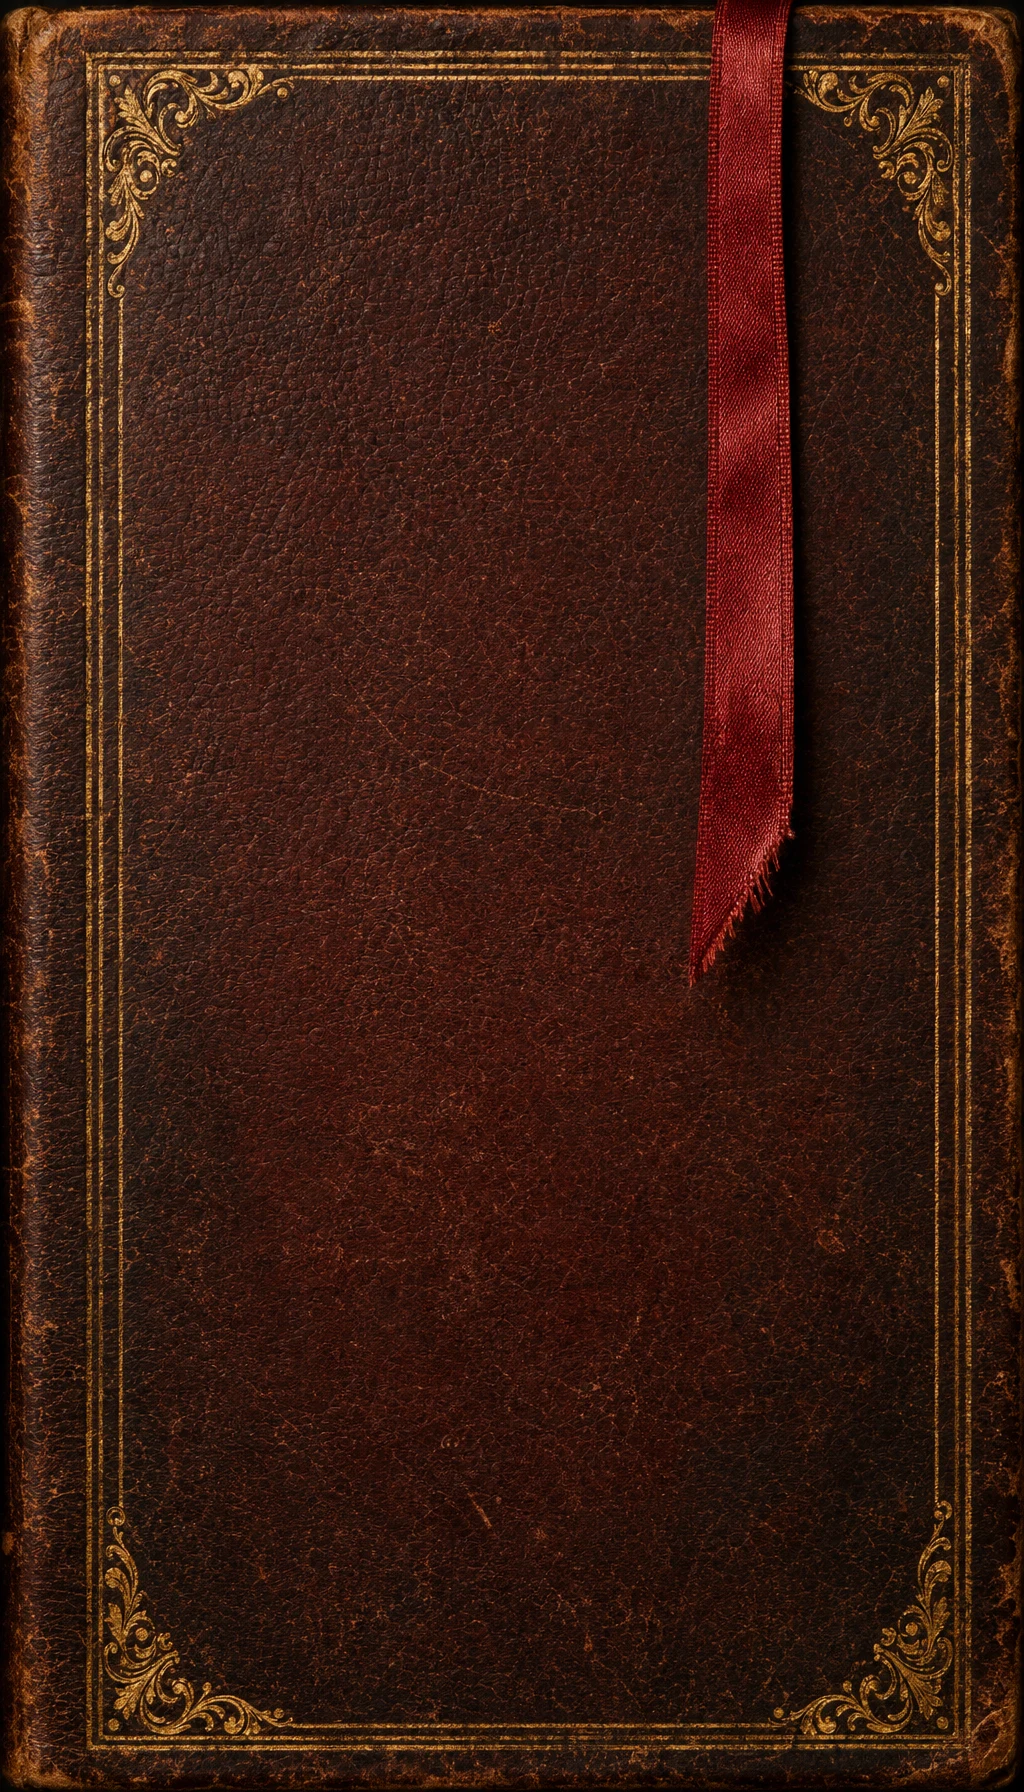
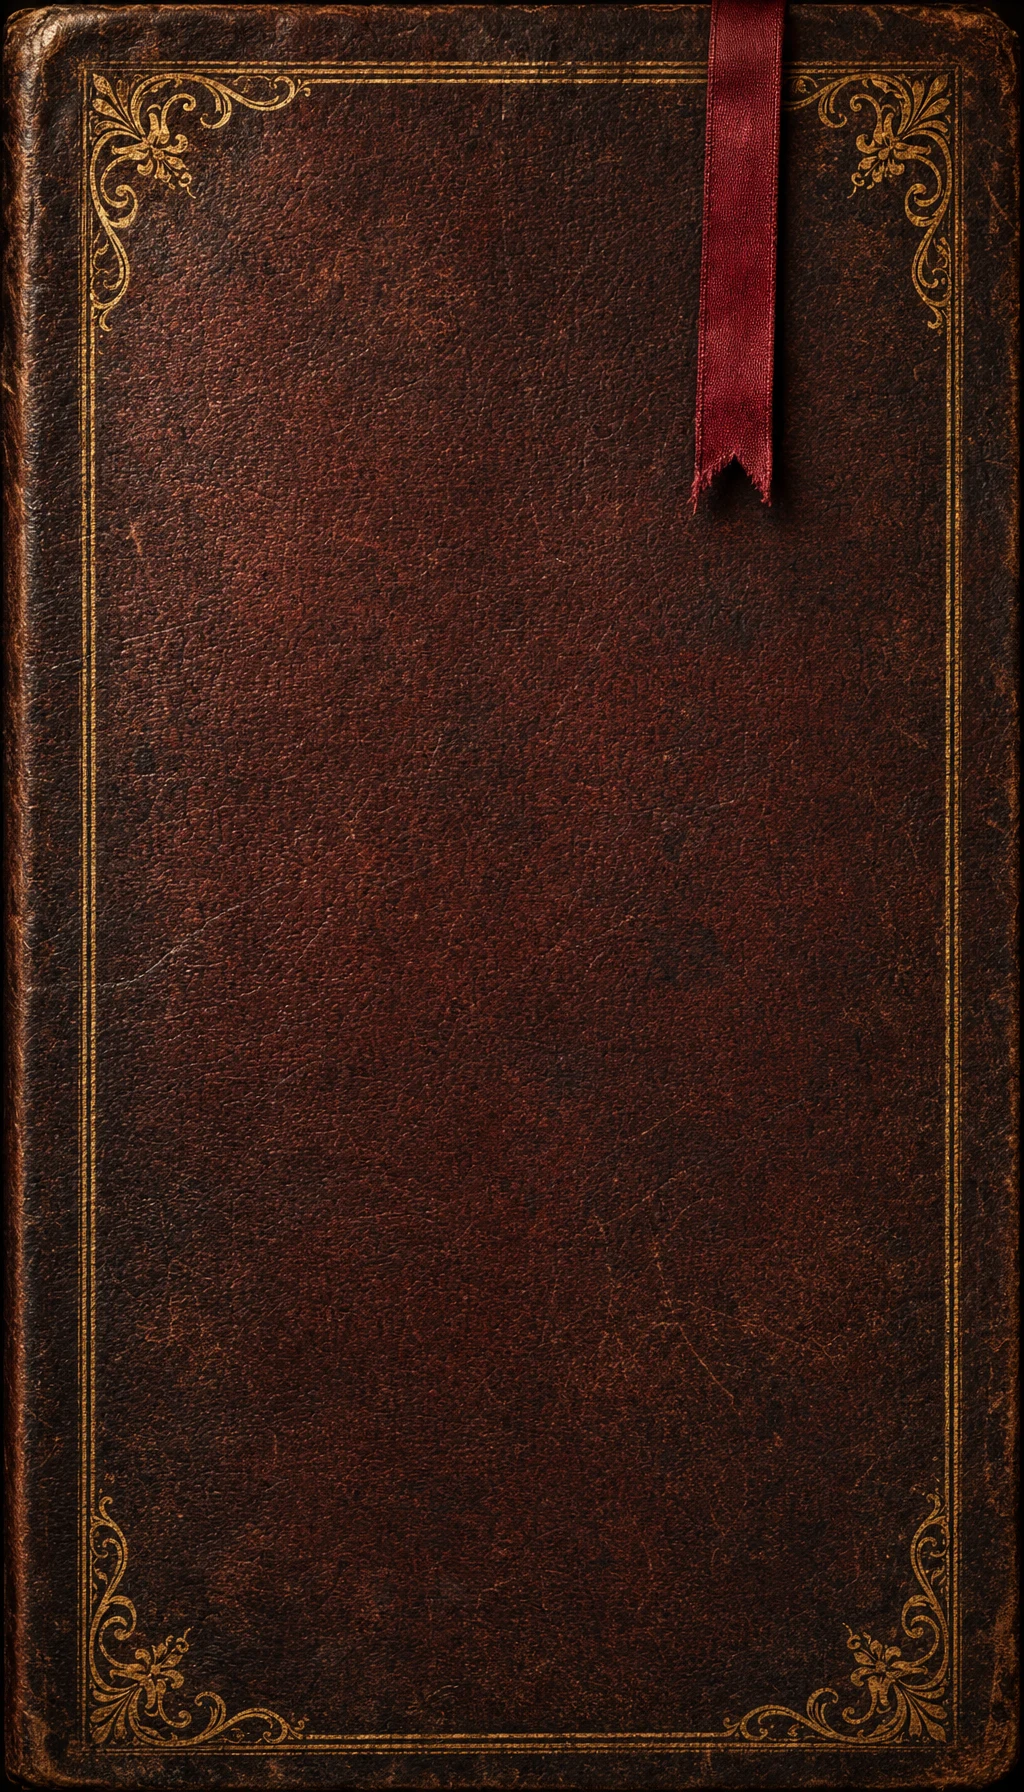
Journal cover: swipe to open/close, embossed gear, worn title
Five changes to the launch ritual.

1. Regenerated the leather image with a much shorter bookmark ribbon
   that ends in the upper third of the cover (~27% down) instead of
   dangling past the centre. Prompt tightened in prompts/leather.txt
   with an explicit "must NOT reach the middle or lower half" clause.

2. Removed the floating settings gear button + floating close-book
   button. Both were fixed circular buttons pinned to the top-left of
   the viewport — they looked like app chrome instead of book chrome.

3. Added an embossed settings glyph inside the parchment cover
   (.cover-stamp). The gear is a small SVG in the top-left of the
   parchment, drop-shadowed above-left + below-right so it looks
   pressed into the paper. Tap opens Settings. Feels like a bookplate
   stamp, not a UI button.

4. Open by right→left swipe on the leather cover; close by left→right
   swipe on the parchment cover. initJournalSwipe() binds touchstart/
   touchmove/touchend to both surfaces. Kept both swipes tight —
   requires >55px horizontal distance and horizontal > vertical *1.2
   so vertical scrolls on the parchment aren't accidentally captured.
   Removed the "tap to open" hint.

5. Title text on the leather looks worn. Muted gold (#c9a24a), a
   raised-highlight above-left + recessed-shadow below-right pair of
   drop-shadows, mix-blend-mode:overlay so the letters interact with
   the leather grain beneath, plus a slight contrast/brightness
[…]

diff --git a/index.html b/index.html
@@ -1955,11 +1955,11 @@ button[onclick*="showAddPlant"]{
   transition:transform .7s cubic-bezier(.55,0,.2,1), opacity .5s ease-in .25s;
 }
 .journal-closed .jc-inner{
-  /* The leather image already has the gold frame and a crimson bookmark
-     ribbon in the upper-right (extending ~55% down the page). Position
-     the title BELOW the ribbon end so it sits on clean leather. */
+  /* The leather image has a short bookmark ribbon that ends in the
+     upper third (~27% from top), then clean leather until the bottom
+     filigree (~85%). Centre the title in that middle band. */
   position:absolute;
-  top:55%;
+  top:56%;
   left:12%;
   right:12%;
   transform:translateY(-50%);
@@ -1974,52 +1974,46 @@ button[onclick*="showAddPlant"]{
   font-size:11.5px;
   letter-spacing:4px;
   text-transform:uppercase;
-  color:rgba(245,215,138,.85);
-  margin-bottom:14px;
-  text-shadow:0 1px 2px rgba(0,0,0,.85);
+  color:rgba(215,175,110,.75);
+  margin-bottom:16px;
+  text-shadow:
+    0 1px 1px rgba(0,0,0,.8),
+    0.5px 0.5px 0 rgba(50,25,10,.5);
 }
+/* Worn embossed gold — the letters look slightly rubbed and unevenly
+   pressed into the leather. Achieved with:
+     • a warmer, muted gold instead of bright #f5c842
+     • a light drop-shadow above-left (raised catch of light) plus a
+       darker drop-shadow below-right (recessed shadow)
+     • mix-blend-mode: overlay so the letters interact with the leather
+       grain beneath instead of sitting flatly on top
+     • a slight text-stroke in near-black for softened edges. */
 .journal-closed .jc-title{
   font-family:'Pinyon Script', serif;
-  font-size:48px;
+  font-size:50px;
   line-height:1;
-  color:#f5c842;
-  text-shadow:
-    0 1px 0 rgba(0,0,0,.9),
-    0 2px 5px rgba(0,0,0,.7),
-    0 0 22px rgba(212,160,23,.35);
-  margin-bottom:14px;
+  color:#c9a24a;
+  margin-bottom:16px;
   word-break:break-word;
+  mix-blend-mode:overlay;
+  filter:contrast(0.92) brightness(1.05);
+  text-shadow:
+    -0.5px -0.5px 0 rgba(230,190,110,.35),   /* highlight edge, upper-left */
+    0.5px  0.5px 0 rgba(40,18,6,.7),          /* dark recess, lower-right   */
+    0 1px 1px rgba(20,10,3,.85),
+    0 2px 6px rgba(0,0,0,.55);
+  opacity:.92;
 }
 .journal-closed .jc-sub{
   font-family:'Cormorant Garamond', serif;
   font-style:italic;
   font-size:14px;
-  color:rgba(245,215,138,.9);
+  color:rgba(215,175,110,.85);
   letter-spacing:2px;
   text-shadow:0 1px 2px rgba(0,0,0,.85);
 }
-.journal-closed .jc-hint{
-  /* Sits inside the frame's clean centre area, above the bottom-corner
-     filigree (which starts ~85% down in the leather image). */
-  position:absolute;
-  bottom:11%;
-  left:0;right:0;
-  font-family:'Cormorant Garamond', serif;
-  font-style:italic;
-  font-size:12px;
-  color:rgba(245,215,138,.70);
-  letter-spacing:3px;
-  text-transform:lowercase;
-  text-align:center;
-  text-shadow:0 1px 3px rgba(0,0,0,.9);
-  animation:jcPulse 2.2s ease-in-out infinite;
-}
-@keyframes jcPulse{
-  0%,100%{opacity:.5;transform:translateY(0)}
-  50%{opacity:.95;transform:translateY(-2px)}
-}
 @media (max-width: 380px){
-  .journal-closed .jc-title{font-size:40px}
+  .journal-closed .jc-title{font-size:42px}
 }
 
 /* =====================================================================
@@ -2206,37 +2200,28 @@ button[onclick*="showAddPlant"]{
 .cover-back-ribbon:hover{ background:rgba(255,250,235,.9); }
 .cover-back-ribbon svg{ width:14px;height:14px;color:var(--gold); }
 
-/* Persistent Settings gear — small circular button pinned to the top-left
-   of the cover, where the app-header (and its gear button) is hidden.
-   Vintage brass-grommet look: cream face, walnut ring, ink-colored gear. */
-.settings-corner-gear,
-.close-corner-book{
-  position:fixed;
-  top:16px;
-  z-index:250;
-  width:38px;
-  height:38px;
-  border-radius:50%;
-  background:linear-gradient(135deg,#f9f2e2 0%,#e9d9b3 100%);
-  border:1.5px solid #9c7c3c;
-  color:#3a2a18;
+/* Embossed settings glyph on the parchment cover — replaces the old
+   floating circular button. Sits inline in the top-left of the cover
+   page, styled to look pressed into the paper: soft light on the
+   upper-left, deeper shadow on the lower-right. */
+.cover-stamp{
+  position:absolute;
+  top:3.5%;
+  left:5%;
+  width:30px;
+  height:30px;
+  color:rgba(80,55,30,.55);
   cursor:pointer;
-  display:flex;
-  align-items:center;
-  justify-content:center;
-  box-shadow:0 3px 8px rgba(58,42,24,.32),inset 0 1px 0 rgba(255,255,255,.55),inset 0 -1px 0 rgba(0,0,0,.08);
-  transition:filter .18s,transform .18s;
-  padding:0;
-  font-family:inherit;
+  z-index:3;
+  filter:
+    drop-shadow(0.5px 0.5px 0 rgba(255,250,235,.7))
+    drop-shadow(-0.4px -0.4px 0 rgba(0,0,0,.18));
+  opacity:.9;
+  transition:opacity .18s, color .18s;
+  -webkit-tap-highlight-color:transparent;
 }
-.settings-corner-gear{ left:16px; }
-.close-corner-book{ left:64px; }
-.settings-corner-gear:hover,
-.close-corner-book:hover{ filter:brightness(1.06); }
-.settings-corner-gear:active,
-.close-corner-book:active{ filter:brightness(.94);transform:scale(.96); }
-.settings-corner-gear svg,
-.close-corner-book svg{ width:20px;height:20px; }
+.cover-stamp:hover{ opacity:1; color:rgba(60,40,20,.7); }
+.cover-stamp svg{ width:100%; height:100%; display:block; }
 
 /* Persistent Ask corner ribbon — a diagonal "Ask" banner pinned to the
    top-right corner of every page, always visible. Sits above the plate
@@ -4560,16 +4545,40 @@ function renderJournalClosed() {
   const gardenName = state.gardenName || 'My Garden';
   return `
     <div class="journal-closed-wrap">
-      <div class="journal-closed" onclick="openJournal()">
+      <div class="journal-closed">
         <div class="jc-inner">
           <div class="jc-eyebrow">Volume I</div>
           <div class="jc-title">${escHtml(gardenName)}</div>
           <div class="jc-sub">a field journal</div>
         </div>
-        <div class="jc-hint">tap to open</div>
       </div>
     </div>
   `;
+}
+// Wire swipe gestures for opening (right→left on the leather cover) and
+// closing (left→right on the parchment cover). Called after each render.
+function initJournalSwipe() {
+  const bind = (el, isClose) => {
+    if (!el || el.dataset.jSwipe) return;
+    el.dataset.jSwipe = '1';
+    let x0=0, y0=0, moved=false;
+    el.addEventListener('touchstart', e => {
+      x0 = e.touches[0].clientX; y0 = e.touches[0].clientY; moved = false;
+    }, { passive: true });
+    el.addEventListener('touchmove', e => { moved = true; }, { passive: true });
+    el.addEventListener('touchend', e => {
+      if (!moved) return;
+      // Don't hijack swipes that started inside a tappable label / control.
+      if (e.target.closest('.cover-label, .ask-line, a, button, input, textarea, [onclick]')) return;
+      const dx = e.changedTouches[0].clientX - x0;
+      const dy = e.changedTouches[0].clientY - y0;
+      if (Math.abs(dx) < Math.abs(dy) * 1.2 || Math.abs(dx) < 55) return;
+      if (isClose && dx > 55)  closeJournal();
+      if (!isClose && dx < -55) openJournal();
+    }, { passive: true });
+  };
+  bind(document.querySelector('.journal-closed'), false);
+  bind(document.querySelector('.journal-cover'), true);
 }
 
 // Inkwell/quill glyph used on the Ask writing line.
@@ -4612,6 +4621,9 @@ function renderJournalCover() {
   return `
     <div class="journal-cover-wrap">
     <div class="journal-cover">
+      <div class="cover-stamp" onclick="event.stopPropagation();state.showSettings=true;render()" title="Settings" role="button" aria-label="Settings">
+        <svg viewBox="0 0 24 24" fill="none" stroke="currentColor" stroke-width="1.55" stroke-linecap="round" stroke-linejoin="round"><circle cx="12" cy="12" r="3"/><path d="M19.4 15a1.65 1.65 0 0 0 .33 1.82l.06.06a2 2 0 0 1-2.83 2.83l-.06-.06a1.65 1.65 0 0 0-1.82-.33 1.65 1.65 0 0 0-1 1.51V21a2 2 0 0 1-4 0v-.09A1.65 1.65 0 0 0 9 19.4a1.65 1.65 0 0 0-1.82.33l-.06.06a2 2 0 0 1-2.83-2.83l.06-.06A1.65 1.65 0 0 0 4.68 15a1.65 1.65 0 0 0-1.51-1H3a2 2 0 0 1 0-4h.09A1.65 1.65 0 0 0 4.6 9a1.65 1.65 0 0 0-.33-1.82l-.06-.06a2 2 0 0 1 2.83-2.83l.06.06A1.65 1.65 0 0 0 9 4.68a1.65 1.65 0 0 0 1-1.51V3a2 2 0 0 1 4 0v.09a1.65 1.65 0 0 0 1 1.51 1.65 1.65 0 0 0 1.82-.33l.06-.06a2 2 0 0 1 2.83 2.83l-.06.06A1.65 1.65 0 0 0 19.4 9a1.65 1.65 0 0 0 1.51 1H21a2 2 0 0 1 0 4h-.09a1.65 1.65 0 0 0-1.51 1z"/></svg>
+      </div>
       <div class="cover-inner">
         <div class="cover-eyebrow">Volume I</div>
         <div class="cover-title">${escHtml(gardenName)}</div>
@@ -7941,20 +7953,9 @@ function render() {
         <span class="q-glyph">✎</span>Ask
       </div>
     </div>`;
-    // Settings gear (top-left) only when the header — which normally
-    // contains the gear — is hidden, i.e. on the cover.
-    if (_hideHeader) {
-      content += `<button class="settings-corner-gear" onclick="state.showSettings=true;render()" title="Settings">
-        <svg viewBox="0 0 24 24" fill="none" stroke="currentColor" stroke-width="2"><circle cx="12" cy="12" r="3"/><path d="M19.4 15a1.65 1.65 0 0 0 .33 1.82l.06.06a2 2 0 0 1-2.83 2.83l-.06-.06a1.65 1.65 0 0 0-1.82-.33 1.65 1.65 0 0 0-1 1.51V21a2 2 0 0 1-4 0v-.09A1.65 1.65 0 0 0 9 19.4a1.65 1.65 0 0 0-1.82.33l-.06.06a2 2 0 0 1-2.83-2.83l.06-.06A1.65 1.65 0 0 0 4.68 15a1.65 1.65 0 0 0-1.51-1H3a2 2 0 0 1 0-4h.09A1.65 1.65 0 0 0 4.6 9a1.65 1.65 0 0 0-.33-1.82l-.06-.06a2 2 0 0 1 2.83-2.83l.06.06A1.65 1.65 0 0 0 9 4.68a1.65 1.65 0 0 0 1-1.51V3a2 2 0 0 1 4 0v.09a1.65 1.65 0 0 0 1 1.51 1.65 1.65 0 0 0 1.82-.33l.06-.06a2 2 0 0 1 2.83 2.83l-.06.06A1.65 1.65 0 0 0 19.4 9a1.65 1.65 0 0 0 1.51 1H21a2 2 0 0 1 0 4h-.09a1.65 1.65 0 0 0-1.51 1z"/></svg>
-      </button>`;
-      // Close-book — only on the parchment cover (not the plate detail),
-      // so the user can go back to the leather-bound launch screen.
-      if (state.view === 'browse' && state.browseMode === 'cover' && state.journalOpen) {
-        content += `<button class="close-corner-book" onclick="closeJournal()" title="Close journal">
-          <svg viewBox="0 0 24 24" fill="none" stroke="currentColor" stroke-width="1.8" stroke-linecap="round" stroke-linejoin="round"><rect x="5" y="3" width="14" height="18" rx="1.2"/><path d="M9 3v18"/><path d="M12 8h4"/><path d="M12 12h4"/></svg>
-        </button>`;
-      }
-    }
+    // (Settings is reached via the embossed cover-stamp inside the
+    // parchment cover, and via the header gear elsewhere. No floating
+    // gear button. Closing the journal is a left→right swipe.)
   }
 
   // Modals
@@ -7969,6 +7970,7 @@ function render() {
   app.innerHTML = content;
   if (state.view === 'beds' && state.bedView === 'edit') setTimeout(initBedCanvas, 50);
   if (state.detailId) setTimeout(() => { initHeroSwipe(); initMonthlyCareCenter(); initPlateFlip(); }, 0);
+  if (state.view === 'browse' && state.browseMode === 'cover') setTimeout(initJournalSwipe, 0);
 }
 
 // If we just bounced back from a failed Google redirect, surface the error

diff --git a/sw.js b/sw.js
@@ -1,5 +1,5 @@
 // Bump date on each deploy to refresh cached assets
-const CACHE = 'plant-buddy-2026-07-08a';
+const CACHE = 'plant-buddy-2026-07-08b';
 const SHELL = ['./index.html', './manifest.json', './icon-192.png', './icon-512.png'];
 
 self.addEventListener('install', e => {